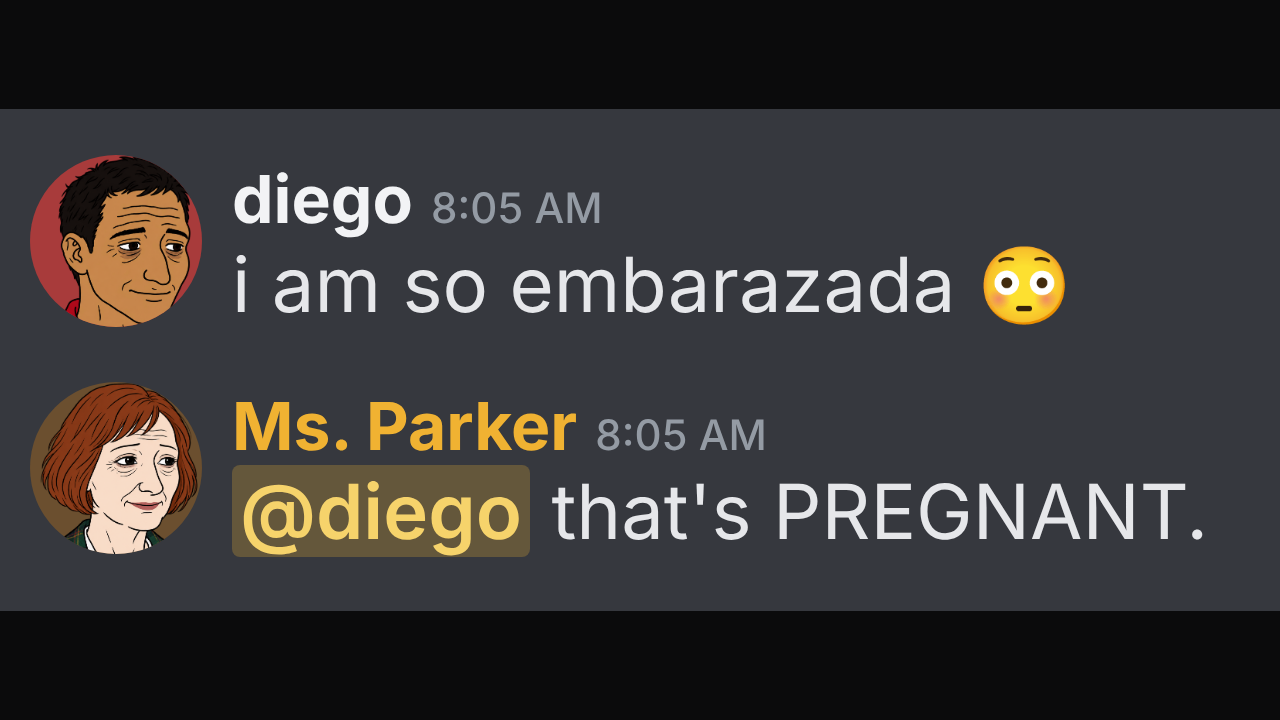
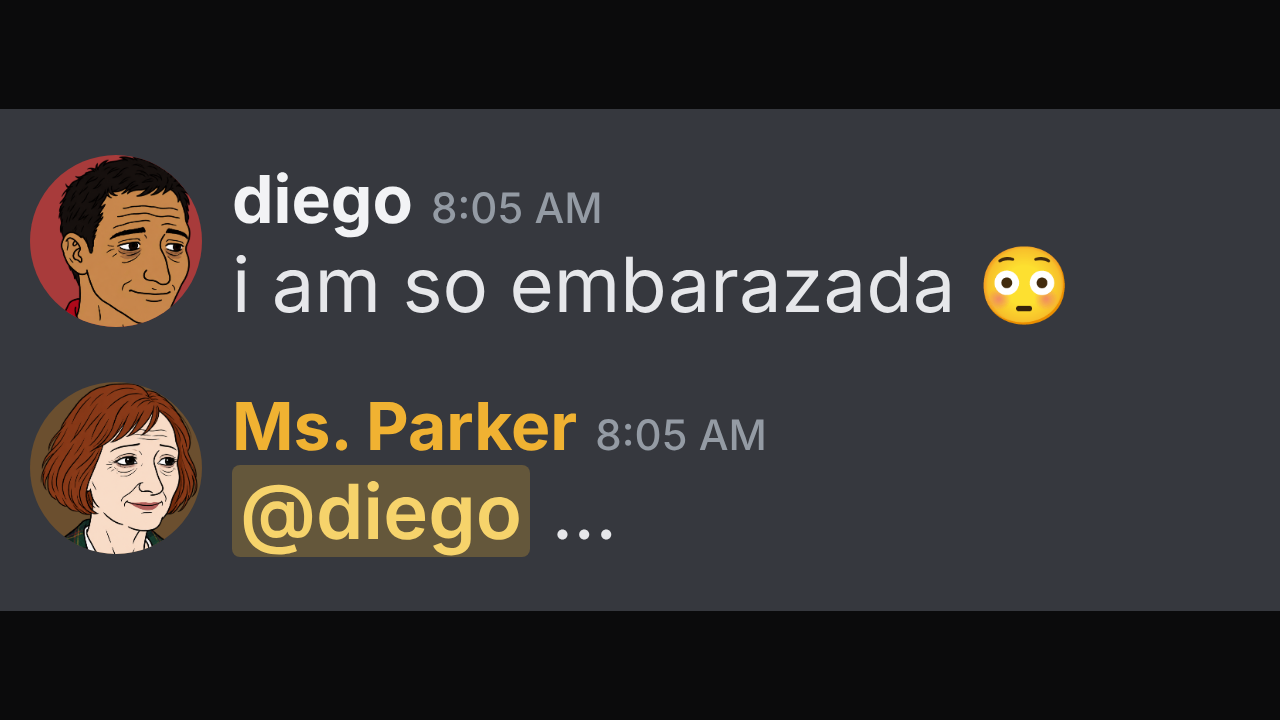
Chat thumbnail: teacher replies '@diego ...'
Claude-Session: https://claude.ai/code/session_01JteZbjgJzANfm9zkD8PK4e

Changed region(s): [[0.4375, 0.6722, 0.9375, 0.7639]]

diff --git a/lingo/blueprints/DISCORD_CHAT_COMEDY_BLUEPRINT.md b/lingo/blueprints/DISCORD_CHAT_COMEDY_BLUEPRINT.md
@@ -387,4 +387,5 @@ commit and push, and send me the video.
   - the reply's key @mention highlighted in yellow;
   - no hook text, no photo, no flag.
 - **Tool:** `node thumb_chat.mjs <key>` → `out/brand/thumbC_<key>.png`. Add the two messages for each episode to `SPECS` in `thumb_chat.mjs`.
-- **Example:** `class`: diego "i am so embarazada 😳" / Ms. Parker "@diego that's PREGNANT."
+- **The thumbnail messages don't have to be in the video** (owner: Beluga's "Netflix: @FBI arrest this kid" never appears in his video). Write the funniest exchange for the click.
+- **Example:** `class`: diego "i am so embarazada 😳" / Ms. Parker "@diego ..." (the teacher has had enough; the reader fills in the rest).
